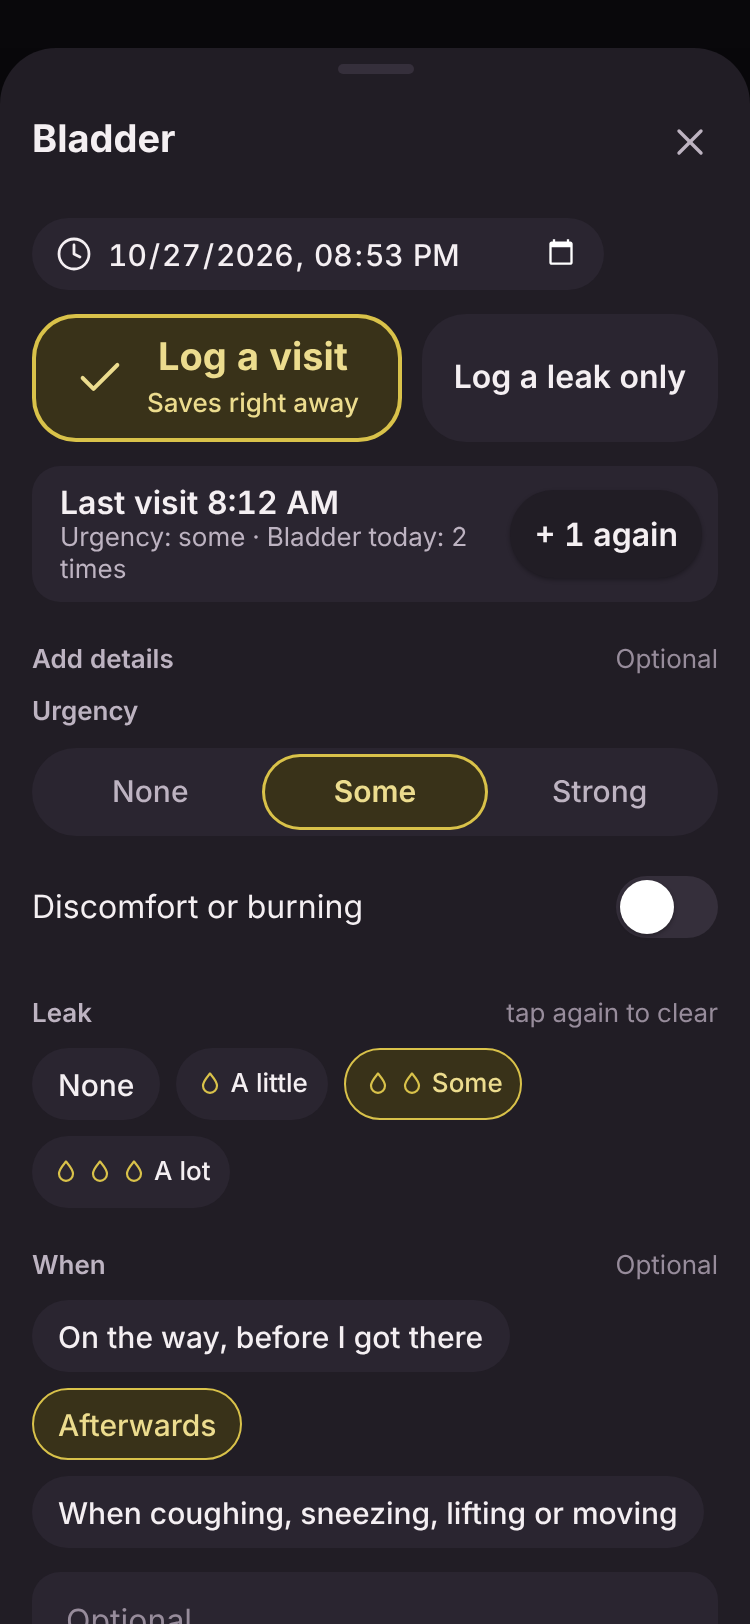
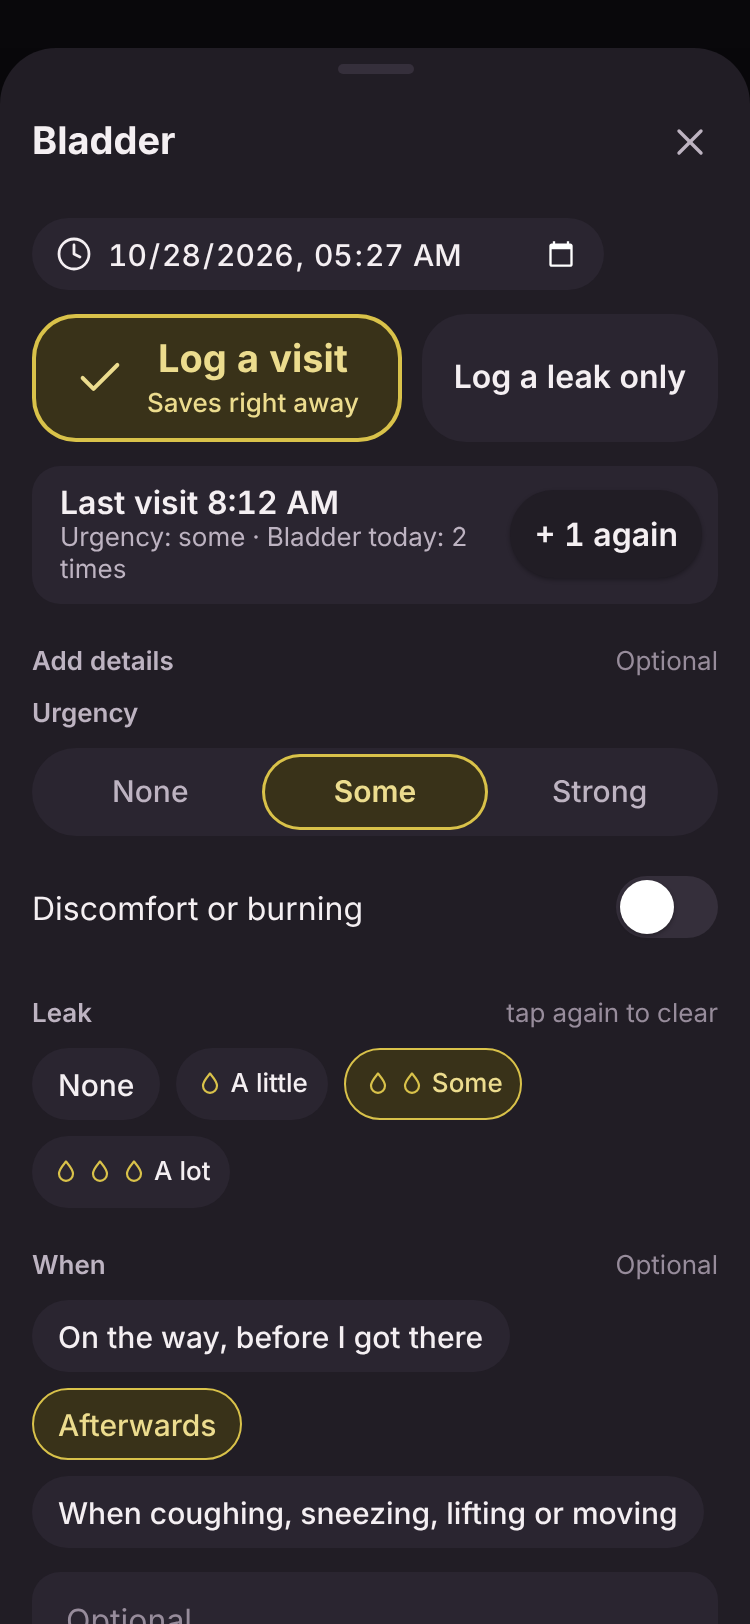
fix: give the Bladder sheet the usual Save button
Every other sheet saves with Save at the bottom; the Bladder sheet hid it
for new entries. The top "Log a visit" stays as a one-tap shortcut.

Claude-Session: https://claude.ai/code/session_01X7tEoUoGVUHfJ85xsB66RP

diff --git a/src/lib/components/LogSheet.svelte b/src/lib/components/LogSheet.svelte
@@ -30,7 +30,6 @@
 		showTime = true,
 		photos,
 		saveLabel,
-		hideSave = false,
 		dock,
 		extra,
 		children
@@ -54,8 +53,6 @@
 		photos?: PhotoDrafts;
 		/** Text of the Save button when it is not just "Save". */
 		saveLabel?: string;
-		/** No Save button on a new entry (the sheet saves with its own buttons); editing still saves normally. */
-		hideSave?: boolean;
 		/** Content pinned above the buttons at the bottom of the sheet (the body map's panel); it stays in view while the sheet scrolls. */
 		dock?: Snippet;
 		/** Another button between Delete and Save. */
@@ -168,9 +165,7 @@
 					<Button variant="quiet" disabled={busy} onclick={onDelete}>{t('common.delete')}</Button>
 				{/if}
 				{#if extra}{@render extra()}{/if}
-				{#if !(hideSave && !id)}
-					<Button disabled={!valid || busy} onclick={onSave}>{saveLabel ?? t('common.save')}</Button>
-				{/if}
+				<Button disabled={!valid || busy} onclick={onSave}>{saveLabel ?? t('common.save')}</Button>
 			</div>
 		</div>
 	</div>

diff --git a/src/lib/components/BladderSheet.svelte b/src/lib/components/BladderSheet.svelte
@@ -23,8 +23,8 @@
 	import type { Payload } from '$lib/records/types';
 
 	/**
-	 * The Bladder sheet (#123), built for one tap: "Log a visit" saves at once with whatever details are set. Editing
-	 * an existing entry uses a normal Save. Record only: no counts are compared with anything.
+	 * The Bladder sheet (#123): "Log a visit" saves at once with whatever details are set, and the usual Save at the
+	 * bottom does the same, like every other sheet. Record only: no counts are compared with anything.
 	 */
 	let time = $state('');
 	let visit = $state(true);
@@ -117,7 +117,7 @@
 	}
 </script>
 
-<LogSheet kind="bladder" title={t('cat.bladder')} {valid} {payload} {onopen} hideSave bind:time>
+<LogSheet kind="bladder" title={t('cat.bladder')} {valid} {payload} {onopen} bind:time>
 	{#if !editing}
 		<div class="bigrow">
 			<button type="button" class="big" data-testid="bladder-visit" onclick={logVisit}>

diff --git a/tests/e2e/period-bladder.spec.ts b/tests/e2e/period-bladder.spec.ts
@@ -159,7 +159,10 @@ test('Bladder: one-tap visits, "+ 1 again", details and a leak on its own', asyn
 	await sheet(page).getByRole('button', { name: 'A little', exact: true }).click();
 	await expect(sheet(page).getByTestId('bladder-when')).toBeVisible();
 	await sheet(page).getByRole('button', { name: 'Afterwards', exact: true }).click();
-	await sheet(page).getByTestId('bladder-visit').click();
+	// After the details, the usual Save at the bottom saves the visit, like on every other sheet.
+	const save = sheet(page).getByRole('button', { name: 'Save', exact: true });
+	await save.scrollIntoViewIfNeeded();
+	await save.click();
 	await expect(sheet(page)).toBeHidden();
 	await expect(day).toHaveText(/Bladder today: 3 times$/);
 	const detailed = entries(page).filter({ hasText: 'Bladder · urgency: some' });

diff --git a/CLAUDE.md b/CLAUDE.md
@@ -257,6 +257,7 @@ These are the owner's standing preferences, learned over M2–M4. Follow them in
 | 2026-10-27 | Period and bladder mockup (`design/period-bladder.html`) approved as drawn: orchid Period and lemon Bladder tints; Period = one entry per day, flow spotting/light/medium/heavy, optional cramps/clots/back pain, note, "Same as yesterday", Today card "Period yesterday. Log today?" (Log copies yesterday, × hides it for the day), Trends calendar + "Days logged"; Bladder = "Log a visit" in one tap, "Log a leak only", "1 again", optional urgency none/some/strong, discomfort or burning, leak droplets 1–3 with optional "When", note; "Bladder today: N times" counts visits only; Trends visits per day with drinks per day below (side by side), days with discomfort, days with a leak split by "When". Both built in one PR on `feature/track-period` (no separate `feature/track-bladder`), → 1.5.0. Danish first drafts | Owner |
 | 2026-10-27 | #126 decisions answered by the owner: (1) Period/Bladder in the doctor report as a follow-up, filed as #127; (2)–(6) ok as built (leak-only button greyed until an amount is picked, "+1 again" only after a visit today and without its note, no future period days, leak-only days count as leak days without a visit bar, Danish first drafts). #125 and #126 released together as **1.4.0** (#128; merge-back #129) instead of 1.4.0 + 1.5.0 | Owner |
 | 2026-10-27 | Bug (owner, iPhone): on the Bladder sheet a swipe scrolled the page behind it, so the Save button could not be reached. Fixed as hotfix 1.4.1 (`hotfix/v1.4.1`): while a sheet is open the page behind cannot scroll (`html:has(dialog[open])`), and sheets scroll on their own without handing the swipe to the page (`overscroll-behavior: contain`); applies to every sheet | Owner |
+| 2026-10-28 | Bladder sheet consistency (owner, after 1.4.1): every sheet has the usual Save at the bottom, so the Bladder sheet gets it back (`hideSave` removed from `LogSheet`, a plain revert); the top "Log a visit" stays as a one-tap shortcut. Hotfix 1.4.2 (`hotfix/v1.4.2`). The owner found the top button confusing at first because it behaved differently: one-tap shortcuts at the top of sheets are a discussion point (backlog) | Owner |
 | 2026-10-24 | Privacy mockup (`design/privacy.html`) approved with 6 decisions: the age line is both a pill and part of the checkbox ("I am 13 or older…"), both hashed; new setting `BACKUP_RETENTION_DAYS` (default 14) feeds the consent text, the Privacy page and the Delete texts; "Read how your data is handled" opens the Privacy page inside sign-up with Back, keeping what was typed (so `/privacy` works signed out); optional `OPERATOR_NAME` / `OPERATOR_CONTACT`, section hidden when empty; complaints name Datatilsynet as plain text; "Read the text you agreed to" shows the person's own version (old versions stay bundled, never edited). Why 13: Denmark's GDPR Art. 8 age; younger children need a parent, which the parked dependent profiles would cover | Owner |
 
 ## Backlog (owner requests to raise later)
@@ -273,12 +274,13 @@ Remind the owner of these when planning the next feature milestone; don't build 
 - **Regular vs as-needed medicines** (2026-10-27): idea issue #124, possibly two separate trackers; the owner has more ideas, discuss before planning.
 - **Hot flushes tracker** (2026-10-27): left out of #123, to be discussed later.
 - **Period and Bladder in the doctor report** (2026-10-27): issue #127, mockup first.
+- **Discussion: one-tap shortcuts on sheets** (2026-10-28): the Bladder sheet's top "Log a visit" (saves at once) confused the owner at first because it behaves differently from the usual Save at the bottom. Discuss one consistent pattern for shortcuts (Bladder "Log a visit" / "+1 again", Drink "Same again", Period "Same as yesterday", the quick-log "Again? One tap" row) before adding more.
 - **Pain episodes** (requested 2026-10-19, for the M5 plan): link pain entries over several days into one episode with a start and
   end ("knee pain, 3 Oct → 9 Oct"), for charts and the doctor-visit PDF. Adds an optional episode link to entries; no migration.
 
 ## Current status
 
-_Last updated: 2026-10-27. Released: **1.4.0** (#125 choose what you track + #126 Period and Bladder trackers; merge-back #129 open). **In review:** `hotfix/v1.4.1` (sheet scrolling on iPhone, found on the Bladder sheet). Open issues: #82 (FHIR idea), #124 (regular vs as-needed medicines, owner has more ideas), #127 (Period/Bladder in the doctor report). Hot flushes parked. Dependent profiles still parked (mockup `design/dependents.html`, 10 unanswered decisions). Versioning: new features → 1.x.0, fixes → 1.x.y. Open: family feedback on the footprint sole (keep, or flip `SOLE_TOES_UP`); leftover branches `merge/1.1.0-into-develop`, `feature/tracker-choice`, `feature/track-period` can be deleted on GitHub. Before any public release: rename (`brand.config.json`), a lawyer's look at the consent and privacy wording, storage quota (backlog)._
+_Last updated: 2026-10-27. Released: **1.4.0** (#125 choose what you track + #126 Period and Bladder trackers; merge-back #129 open). **1.4.1 released** (sheet scrolling on iPhone; merge-back #129 now carries 1.4.0 and 1.4.1). **In review:** `hotfix/v1.4.2` (Bladder sheet gets the usual bottom Save). Discussion point for the owner: one-tap shortcuts on sheets (backlog). Open issues: #82 (FHIR idea), #124 (regular vs as-needed medicines, owner has more ideas), #127 (Period/Bladder in the doctor report). Hot flushes parked. Dependent profiles still parked (mockup `design/dependents.html`, 10 unanswered decisions). Versioning: new features → 1.x.0, fixes → 1.x.y. Open: family feedback on the footprint sole (keep, or flip `SOLE_TOES_UP`); leftover branches `merge/1.1.0-into-develop`, `feature/tracker-choice`, `feature/track-period` can be deleted on GitHub. Before any public release: rename (`brand.config.json`), a lawyer's look at the consent and privacy wording, storage quota (backlog)._
 
 
 
